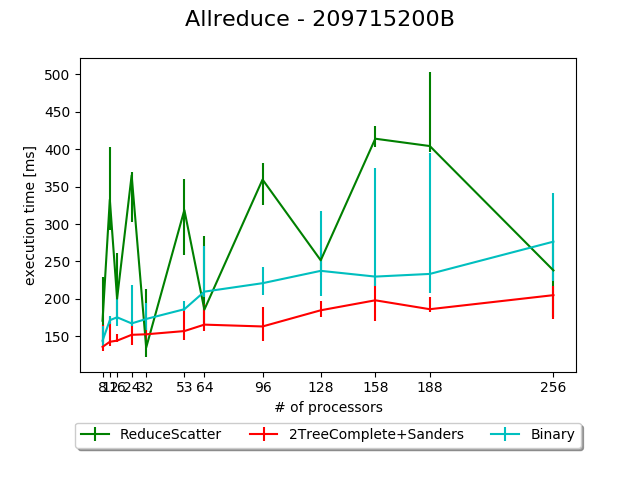
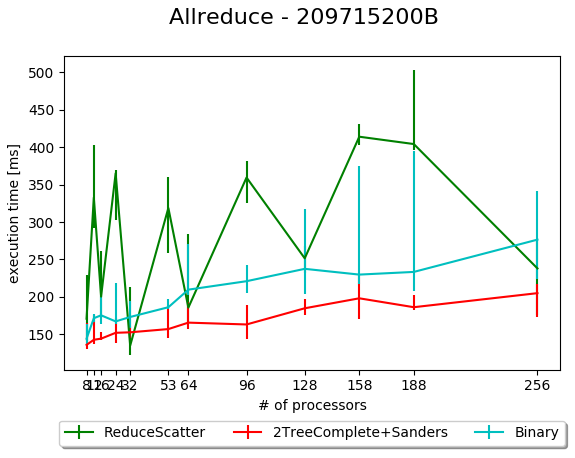
Adding allreduce graphs for large size and fixing graphs

diff --git a/NewDraft-2019/collective.tex b/NewDraft-2019/collective.tex
@@ -675,16 +675,16 @@ Message Sizes : 256KB, 512KB, 1MB, 3MB, 5MB, 7MB
 \begin{subfigure}{.25\textwidth}
   \centering
   \includegraphics[width=1\linewidth]{images/Results/AllReduce/allreduce_comp1_262144B.png}
-  \caption{Reduce - 256KB}
+  \caption{All-Reduce - 256KB}
   \label{reduce-selected-256B}
 \end{subfigure}%
 \begin{subfigure}{.25\textwidth}
   \centering
   \includegraphics[width=1\linewidth]{images/Results/AllReduce/allreduce_comp1_524288B.png}
-  \caption{Reduce - 512KB}
+  \caption{All-Reduce - 512KB}
   \label{reduce-selected-512B}
 \end{subfigure}
-\caption{Reduce results for small sized messages}
+\caption{All-Reduce results for small sized messages}
 \label{graph-reduce-small-selected}
 \end{figure}
 
@@ -692,17 +692,17 @@ Message Sizes : 256KB, 512KB, 1MB, 3MB, 5MB, 7MB
 \centering
 \begin{subfigure}{.25\textwidth}
   \centering
-  \includegraphics[width=1\linewidth]{images/Results/AllReduce/AllReduce_comp2New_1048576B.png}
-  \caption{Reduce - 1MB}
+  \includegraphics[width=1\linewidth]{images/Results/AllReduce/AllReduce_comp2_1048576B.png}
+  \caption{All-Reduce - 1MB}
   \label{reduce-selected-1MB}
 \end{subfigure}%
 \begin{subfigure}{.25\textwidth}
   \centering
-  \includegraphics[width=1\linewidth]{images/Results/AllReduce/AllReduce_comp2New_3145728B.png}
-  \caption{Reduce - 3MB}
+  \includegraphics[width=1\linewidth]{images/Results/AllReduce/AllReduce_comp2_3145728B.png}
+  \caption{All-Reduce - 3MB}
   \label{reduce-selected-3MB}
 \end{subfigure}
-\caption{Reduce results for medium sized messages}
+\caption{All-Reduce results for medium sized messages}
 \label{graph-reduce-medium1-selected}
 \end{figure}
 
@@ -710,17 +710,41 @@ Message Sizes : 256KB, 512KB, 1MB, 3MB, 5MB, 7MB
 \centering
 \begin{subfigure}{.25\textwidth}
   \centering
-  \includegraphics[width=1\linewidth]{images/Results/AllReduce/AllReduce_comp2New_5242880B.png}
-  \caption{Reduce - 5MB}
+  \includegraphics[width=1\linewidth]{images/Results/AllReduce/Allreduce_comp2_5242880B.png}
+  \caption{All-Reduce - 5MB}
   \label{reduce-selected-5MB}
 \end{subfigure}%
 \begin{subfigure}{.25\textwidth}
   \centering
-  \includegraphics[width=1\linewidth]{images/Results/AllReduce/AllReduce_comp2New_7340032B.png}
-  \caption{Reduce - 7MB}
+  \includegraphics[width=1\linewidth]{images/Results/AllReduce/AllReduce_comp2_7340032B.png}
+  \caption{All-Reduce - 7MB}
   \label{reduce-selected-7MB}
 \end{subfigure}
-\caption{Reduce results for medium sized messages}
+\caption{All-Reduce results for medium sized messages}
+\label{graph-reduce-medium2-selected}
+\end{figure}
+
+\begin{figure}
+\centering
+\begin{subfigure}{.25\textwidth}
+  \centering
+  \includegraphics[width=1\linewidth]{images/Results/AllReduce/AllReduceComp2_52428800B.png}
+  \caption{All-Reduce - 50MB}
+  \label{reduce-selected-5MB}
+\end{subfigure}%
+\begin{subfigure}{.25\textwidth}
+  \centering
+  \includegraphics[width=1\linewidth]{images/Results/AllReduce/AllReduceComp2_104857600B.png}
+  \caption{All-Reduce - 100MB}
+  \label{reduce-selected-7MB}
+\end{subfigure}
+\begin{subfigure}{0.5\textwidth}
+  \centering
+  \includegraphics[width=0.5\linewidth]{images/Results/AllReduce/AllReduceComp2_209715200B.png}
+  \caption{All-Reduce - 200MB}
+  \label{reduce-selected-7MB}
+\end{subfigure}
+\caption{All-Reduce results for large sized messages}
 \label{graph-reduce-medium2-selected}
 \end{figure}
 
@@ -1111,4 +1135,3 @@ Message Sizes : 256KB, 512KB, 1MB, 3MB, 5MB, 7MB
 % Text of appendix \ldots
 
 \end{document}
-
